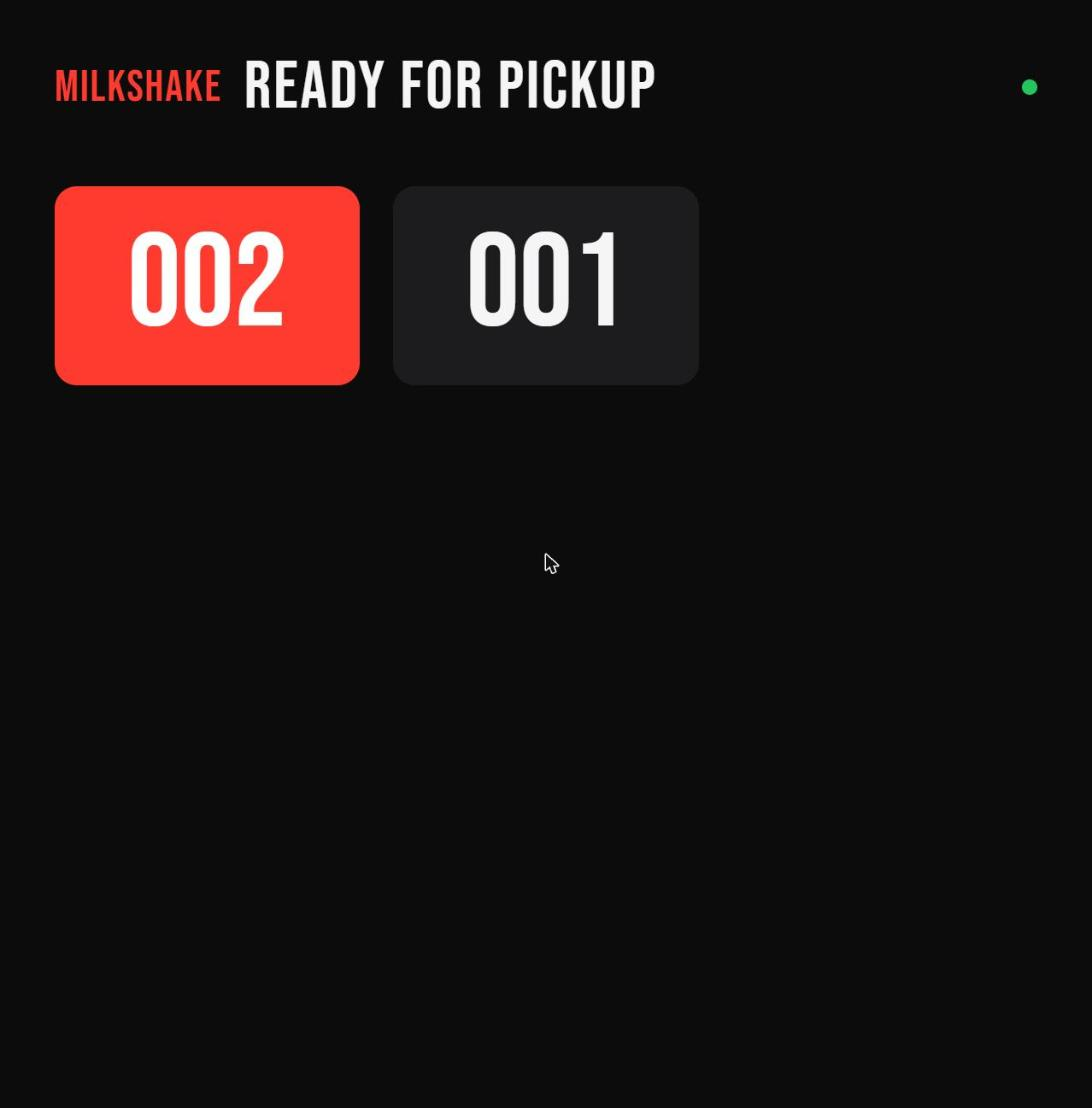
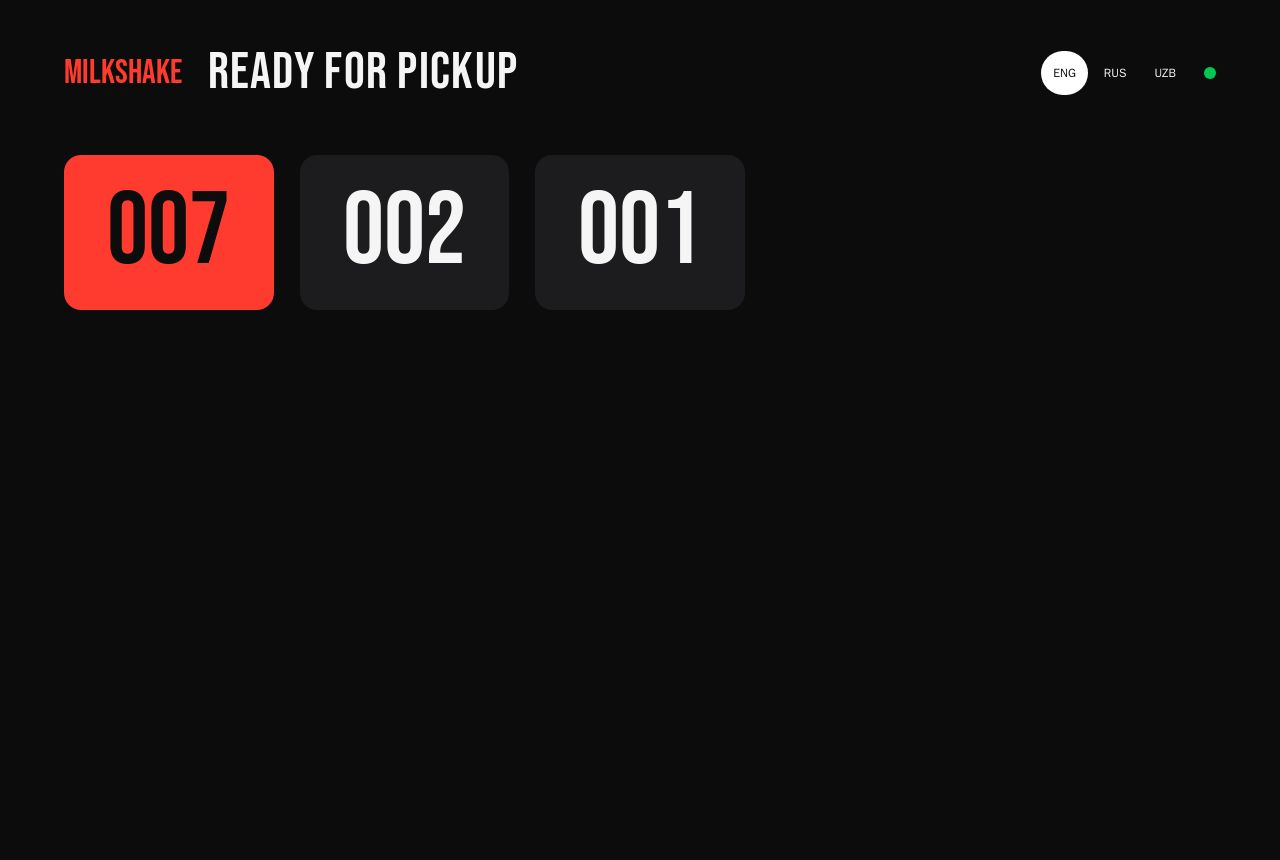
docs: readme and backlog for the sveltekit frontend
New screenshots, the lighthouse and accessibility numbers, how to run the prod build and the playwright suite, and what is still not done: refresh tokens and testing on physical phones.

diff --git a/README.md b/README.md
@@ -7,9 +7,13 @@ get a ticket number. Staff work the queue on a tablet. When a drink is ready
 the number lights up on a TV by the bar, and the guest's phone flips to
 "Ready" on its own. No app to install, no refreshing.
 
-| Staff queue | Pickup TV | Guest's phone (Russian) |
-|---|---|---|
-| ![Staff queue](docs/screenshots/staff-queue.jpg) | ![Pickup TV](docs/screenshots/pickup-tv.jpg) | ![Guest ticket](docs/screenshots/guest-ticket-ru.jpg) |
+| Staff queue | Guest's phone (Russian) |
+|---|---|
+| ![Staff queue](docs/screenshots/staff-queue.jpg) | ![Guest ticket](docs/screenshots/guest-ticket-ru.jpg) |
+
+| Menu | Pickup TV |
+|---|---|
+| ![Menu](docs/screenshots/menu.jpg) | ![Pickup TV](docs/screenshots/pickup-tv.jpg) |
 
 ## How it works
 
@@ -19,7 +23,7 @@ the number lights up on a TV by the bar, and the guest's phone flips to
 4. **Picked up** clears it from the TV. Cancel works from any open state.
 
 Ticket numbers restart at 001 every day at midnight in the bar's timezone.
-The menu is available in English, Russian and Uzbek.
+Everything a guest sees is in English, Russian and Uzbek.
 
 ## Stack
 
@@ -27,11 +31,21 @@ The menu is available in English, Russian and Uzbek.
 |---|---|
 | Backend | FastAPI (async), SQLAlchemy 2.0 + asyncpg, Alembic, Pydantic v2 |
 | Realtime | Server-Sent Events, Redis pub/sub across workers (in-process fallback) |
+| Frontend | SvelteKit 2 + Svelte 5, Tailwind CSS v4, server-rendered menu |
 | Auth | JWT bearer for staff |
 | Database | PostgreSQL 15 |
-| Frontend | Svelte 5 + Vite |
-| Quality | pytest (76 tests, services 96%+ covered), ruff, GitHub Actions |
+| Quality | pytest (76), Playwright + axe-core (16), ruff, svelte-check, GitHub Actions |
 | Infra | Docker Compose |
+
+## Numbers
+
+| Check | Result |
+|---|---|
+| Lighthouse, menu on a simulated 3G phone (prod build) | Performance 91-94, Accessibility 100, SEO 100 |
+| axe-core, WCAG 2.1 A + AA | 0 violations on every screen, in English and Russian |
+| Keyboard only | A ticket goes accept, ready, picked up with Enter alone |
+| Without JavaScript | Menu renders and the language can be switched |
+| Backend coverage | services 96-100%, overall 78% |
 
 ## Engineering notes
 
@@ -49,13 +63,24 @@ The parts that were harder than they look:
   snapshot, so a change that lands mid-query is still delivered. Reconnects
   get a fresh snapshot instead of replaying history.
 - **Dead connections that look alive.** A proxy can keep the browser's
-  socket open after the backend dies; the Vite dev proxy does exactly that.
-  The server sends a `ping` event every 15s, and clients reconnect after
-  40s of silence.
+  socket open after the backend dies. The server sends a `ping` event every
+  15s, and clients reconnect after 40s of silence.
 - **Streams don't pin database connections.** A session taken through
   `Depends` lives until the response ends, which for a stream is when the
   browser leaves. Stream routes use short sessions that close before
   streaming starts.
+- **One origin.** The SvelteKit server forwards `/api` and `/uploads` to the
+  backend with streaming bodies, so there is no CORS, the backend stays
+  private, and SSE passes straight through.
+- **Language without a flash.** The locale lives in a cookie, so the server
+  renders the right language first time. Translations are a pure function
+  of (locale, key) rather than a global store, which on a server would leak
+  one guest's language into another's request. Plurals use
+  `Intl.PluralRules`, so Russian gets its one/few/many forms.
+- **3G first paint.** Fonts are self-hosted instead of a blocking Google
+  stylesheet, CSS is inlined, and the production server gzips HTML that was
+  44 KB raw. Lighthouse performance went from 81 to 91-94. Event streams are
+  excluded from gzip, since compression buffers them.
 - **Uploads are checked by content.** Files are accepted by their leading
   bytes, never by the browser's content type or filename, and saved under
   our own extension, so an HTML file posing as an image can't be served
@@ -94,19 +119,32 @@ The seed creates sample drinks and an admin `admin@example.com` /
 | http://localhost:8000/docs | API (Swagger) |
 
 Containers: Postgres on host port `55432`, Redis (internal only), backend on
-`8000`, Vite on `5173`.
+`8000`, SvelteKit dev server on `5173`.
+
+### Production build
+
+```bash
+docker build --target prod -t milkshake-web ./web
+docker run -p 3000:3000 -e BACKEND_URL=http://backend:8000 -e ORIGIN=https://your.domain milkshake-web
+```
+
+Put TLS in front (Caddy or nginx). `ORIGIN` must be the public URL.
 
 ## Tests
 
 ```bash
-docker compose exec backend pytest                    # everything
-docker compose exec backend pytest --cov=app          # with coverage
+docker compose exec backend pytest --cov=app          # backend, 76 tests
 docker compose exec backend ruff check app tests      # lint
+
+# frontend: accessibility, keyboard, no-JS and translation checks
+docker run --rm --ipc=host --network milkshake_default \
+  -e BASE_URL=http://frontend:5173 -v "$PWD/web:/app" -w /app \
+  mcr.microsoft.com/playwright:v1.49.1-jammy sh -c "npm ci && npx playwright test"
 ```
 
-Tests run against a separate `milkshake_test` database that is rebuilt per
-test. CI also applies every migration up, down and up again on an empty
-database, and builds the frontend.
+CI runs all of it: lint, a migration round trip on an empty database, the
+backend suite, `svelte-check`, the production build, and the Playwright suite
+against the whole stack in Compose.
 
 ## API
 
@@ -125,20 +163,21 @@ Menu and upload endpoints are listed in Swagger.
 
 ## Configuration
 
-| Variable | Default | Notes |
-|---|---|---|
-| `JWT_SECRET` | none | Required, 32+ chars |
-| `JWT_ACCESS_TTL_MINUTES` | `480` | One staff shift |
-| `BAR_TIMEZONE` | `Asia/Tashkent` | When ticket numbers reset |
-| `REDIS_URL` | unset | Set to share live events across workers |
-| `BACKEND_CORS_ORIGINS` | localhost | Comma separated |
+| Variable | Where | Default | Notes |
+|---|---|---|---|
+| `JWT_SECRET` | backend | none | Required, 32+ chars |
+| `JWT_ACCESS_TTL_MINUTES` | backend | `480` | One staff shift |
+| `BAR_TIMEZONE` | backend | `Asia/Tashkent` | When ticket numbers reset |
+| `REDIS_URL` | backend | unset | Set to share live events across workers |
+| `BACKEND_URL` | web | `http://localhost:8000` | Where the web server finds the API. Never sent to browsers |
+| `PUBLIC_MENU_URL` | web | request origin | What the QR code points at |
+| `ORIGIN` | web (prod) | none | Public URL, required by the Node server |
 
 ## Testing on a real phone
 
-Find your machine's LAN IP, put `VITE_API_BASE=http://<ip>:8000` in
-`frontend/.env`, add `http://<ip>:5173` to `BACKEND_CORS_ORIGINS`, restart
-both containers, then open `http://<ip>:5173/qr` and scan it on the same
-Wi-Fi.
+Open `http://<your-LAN-IP>:5173/qr` on the computer and scan it with a phone
+on the same Wi-Fi. The web server proxies the API, so there is nothing else
+to configure.
 
 ## Troubleshooting
 
@@ -148,16 +187,14 @@ Wi-Fi.
 | `password authentication failed` | The DB volume has an old password. `docker compose down -v` (wipes dev data) |
 | Backend fails on `JWT_SECRET` | Missing or under 32 characters |
 | Edits don't show up in the browser | Docker on Windows and macOS doesn't forward file events. Compose sets `VITE_USE_POLLING=true`; restart the frontend container if you removed it |
+| `Blocked request. This host is not allowed` | Add the hostname to `VITE_ALLOWED_HOSTS` |
 | Staff page logs you out | The token expired after 8 hours, or the admin row was recreated. Log in again |
 
 ## Status
 
-Done: async backend, JWT auth, service layer, order lifecycle with daily
-tickets, live updates, staff queue, pickup TV, guest tracking, tests and CI.
-
-Next, in [the backlog](docs/BACKLOG.md): refresh tokens in HttpOnly cookies,
-a SvelteKit port for server-rendered menus, and a production compose file
-with TLS.
+Done: every phase in [the backlog](docs/BACKLOG.md) except refresh tokens in
+HttpOnly cookies (2.5). Not done: testing on physical iOS and Android devices,
+and a hosted demo.
 
 ## License
 

diff --git a/docs/BACKLOG.md b/docs/BACKLOG.md
@@ -1,8 +1,17 @@
 # Backlog
 
-**Status, November 2026:** phases 1 to 6 and 9 are done. Phase 9 shipped on the
-current Svelte SPA instead of waiting for the SvelteKit port. Phases 2.5, 7, 8,
-10 and 11 are open.
+**Status, November 2026:** every phase is done except 2.5 (refresh tokens).
+Where the result differs from the plan below:
+
+- Phase 9 shipped before the SvelteKit port, then moved over with it.
+- Phase 10 keeps the language in a cookie, mirrored to localStorage, so the
+  server can render the right language. It uses a small in-house layer over
+  `messages/*.json` instead of svelte-i18n, whose global store would share
+  one locale across concurrent server requests.
+- Phase 11 has not had a pass on physical iOS and Android devices. Mobile was
+  checked in an emulated 390px touch viewport only.
+- Phase 7's Lighthouse target was met on the production build: 91-94 on a
+  simulated 3G phone.
 
 Two kinds of work live here:
 
@@ -176,7 +185,7 @@ Acceptance:
 - Critical flows covered: place order, accept→ready→complete, cancel,
   ticket-number uniqueness, JWT expiry, drink CRUD authorization.
 
-### Phase 7: SvelteKit migration
+### Phase 7: SvelteKit migration (done)
 **Branch:** `refactor/phase-7-sveltekit`
 **Why:** Replace the hand-rolled SPA routing with a real framework. Adds
 SSR for the menu (phone-first perf).
@@ -198,7 +207,7 @@ Acceptance:
 - All flows from the current SPA work in the new app (manual QA pass).
 - No client-side fetch to the backend that should be SSR (audit network tab).
 
-### Phase 8: Tailwind v4 + design tokens
+### Phase 8: Tailwind v4 + design tokens (done)
 **Branch:** `refactor/phase-8-design`
 **Why:** Plain CSS is hard to maintain. Tailwind v4 with design tokens gives
 consistent spacing, colors, and typography across screens.
@@ -235,7 +244,7 @@ Acceptance:
 - Disable network on `/display` tab for 30s → reconnects automatically when
   network returns, fetches fresh state.
 
-### Phase 10: i18n done right
+### Phase 10: i18n done right (done)
 **Branch:** `refactor/phase-10-i18n`
 **Why:** The current language switcher is a giant inline `copy` object.
 Hard to extend, no plurals, no formatting.
@@ -253,7 +262,7 @@ Acceptance:
 - Switching language changes everything on the page including currency
   formatting.
 
-### Phase 11: Polish & a11y
+### Phase 11: Polish & a11y (done)
 **Branch:** `refactor/phase-11-polish`
 **Why:** Pre-launch hardening.
 

diff --git a/docs/ARCHITECTURE.md b/docs/ARCHITECTURE.md
@@ -71,7 +71,7 @@ Layers:
 
 Server-side rendered for the public menu (fast first paint on slow phone
 networks) and client-side for the admin and display screens. Lives in
-`web/` after the migration (currently `frontend/`).
+`web/` (SvelteKit).
 
 Pages:
 
